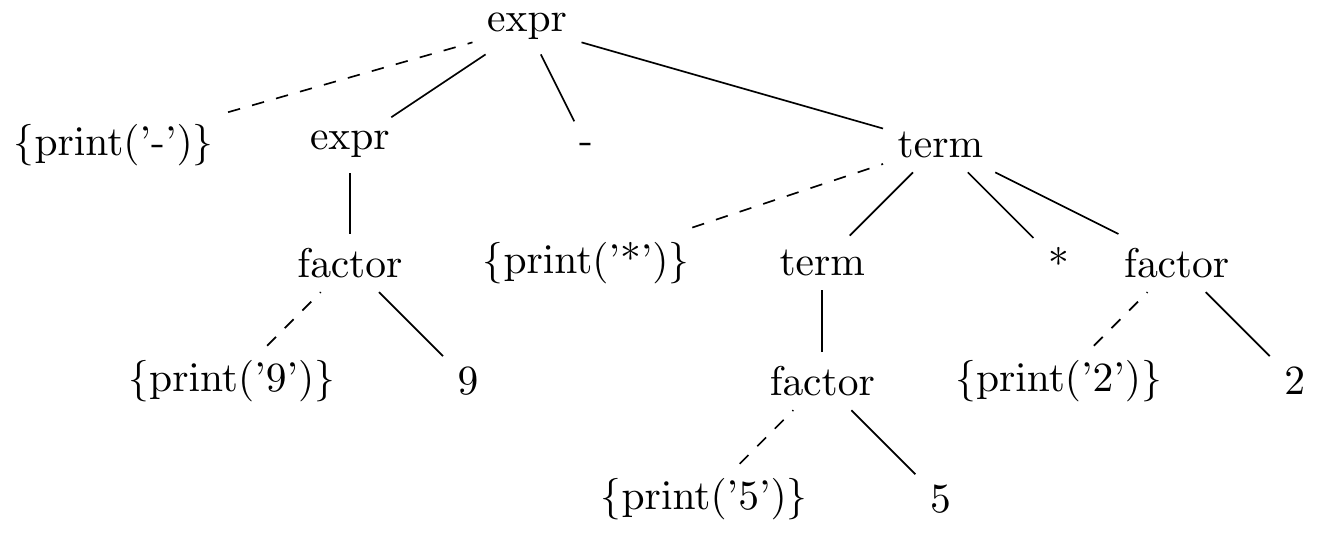
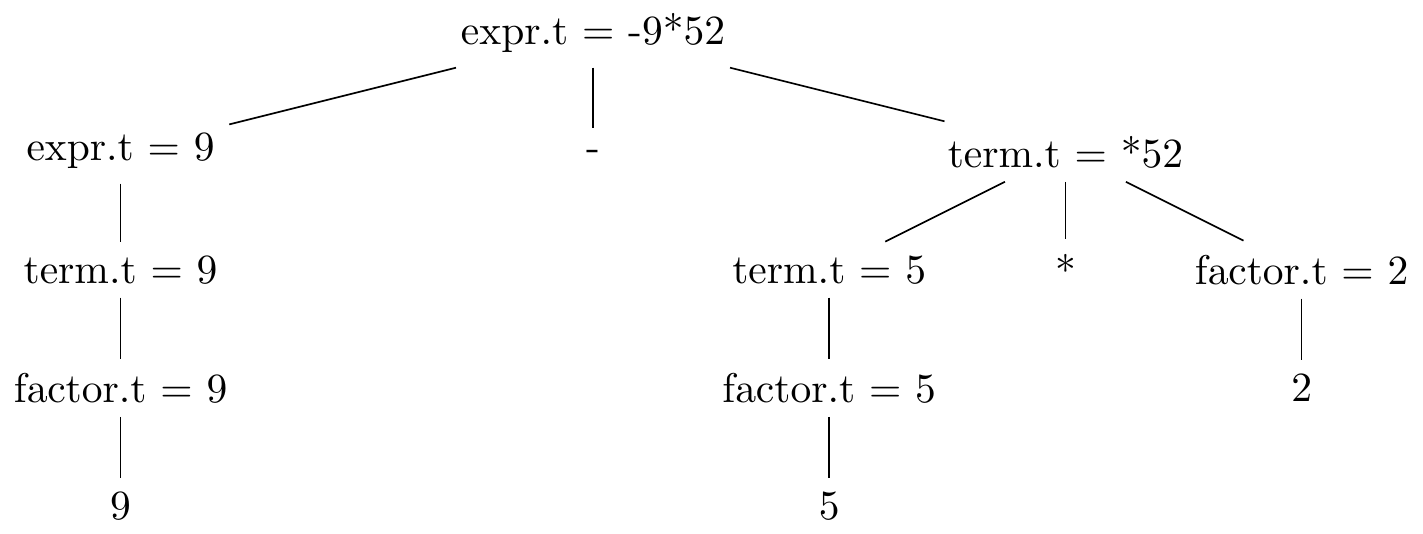
Draw annotated parse tree for the second part of 2.7

diff --git a/ch02/img/2.7-mul.tex b/ch02/img/2.7-mul.tex
@@ -2,46 +2,40 @@
 \usepackage{tikz}
 \begin{document}
 \begin{tikzpicture}
-  \node (p5) at (4, 0) {\{print('5')\}};
-  \node (5) at (6, 0) {5};
+  \node (e) at (0, 0) {expr.t = -9*52};
 
-  \node (p9) at (0, 1) {\{print('9')\}};
-  \node (9) at (2, 1) {9};
-  \node (f5) at (5, 1) {factor};
-  \node (p2) at (7, 1) {\{print('2')\}};
-  \node (2) at (9, 1) {2};
+  \node (e9) at (-4, -1) {expr.t = 9};
+  \node (-) at (0, -1) {-};
+  \node (t52) at (4, -1) {term.t = *52};
+  \draw (e) -- (e9);
+  \draw (e) -- (-);
+  \draw (e) -- (t52);
 
-  \draw[dashed] (p5) -- (f5);
-  \draw (5) -- (f5);
+  \node (t9) at (-4, -2) {term.t = 9};
+  \draw (e9) -- (t9);
 
-  \node (f9) at (1, 2) {factor};
-  \node (p*) at (3, 2) {\{print('*')\}};
-  \node (t5) at (5, 2) {term};
-  \node (*) at (7, 2) {*};
-  \node (f2) at (8, 2) {factor};
+  \node (t5) at (2, -2) {term.t = 5};
+  \draw (t52) -- (t5);
 
-  \draw[dashed] (p9) -- (f9);
-  \draw (9) -- (f9);
-  \draw (f5) -- (t5);
-  \draw[dashed] (p2) -- (f2);
-  \draw (2) -- (f2);
+  \node (*) at (4, -2) {*};
+  \draw (t52) -- (*);
 
-  \node (p-) at (-1, 3) {\{print('-')\}};
-  \node (e9) at (1, 3) {expr};
-  \node (-) at (3, 3) {-};
-  \node (t*) at (6, 3) {term};
+  \node (f2) at (6, -2) {factor.t = 2};
+  \draw (t52) -- (f2);
 
-  \draw (f9) -- (e9);
-  \draw[dashed] (p*) -- (t*);
-  \draw (t5) -- (t*);
-  \draw (*) -- (t*);
-  \draw (f2) -- (t*);
+  \node (f9) at (-4, -3) {factor.t = 9};
+  \draw (t9) -- (f9);
 
-  \node (e) at (2.5, 4) {expr};
+  \node (f5) at (2, -3) {factor.t = 5};
+  \draw (t5) -- (f5);
 
-  \draw[dashed] (p-) -- (e);
-  \draw (e9) -- (e);
-  \draw (-) -- (e);
-  \draw (t*) -- (e);
+  \node (2) at (6, -3) {2};
+  \draw (f2) -- (2);
+
+  \node (9) at (-4, -4) {9};
+  \draw (f9) -- (9);
+
+  \node (5) at (2, -4) {5};
+  \draw (f5) -- (5);
 \end{tikzpicture}
 \end{document}
